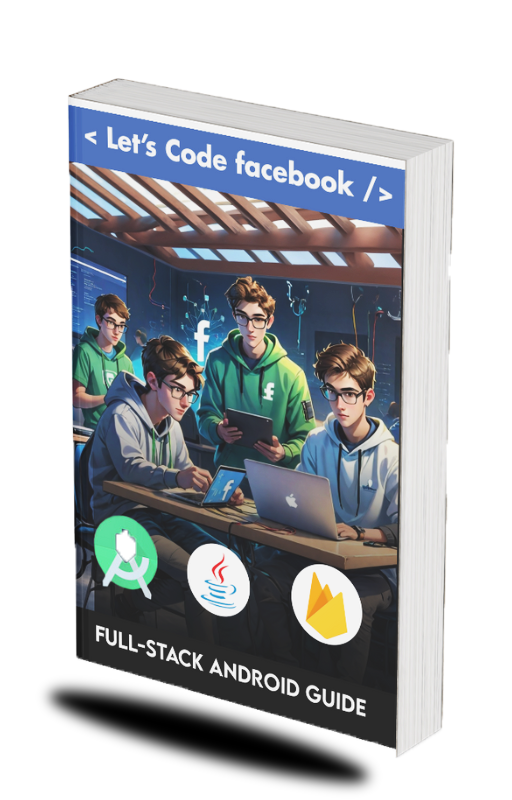
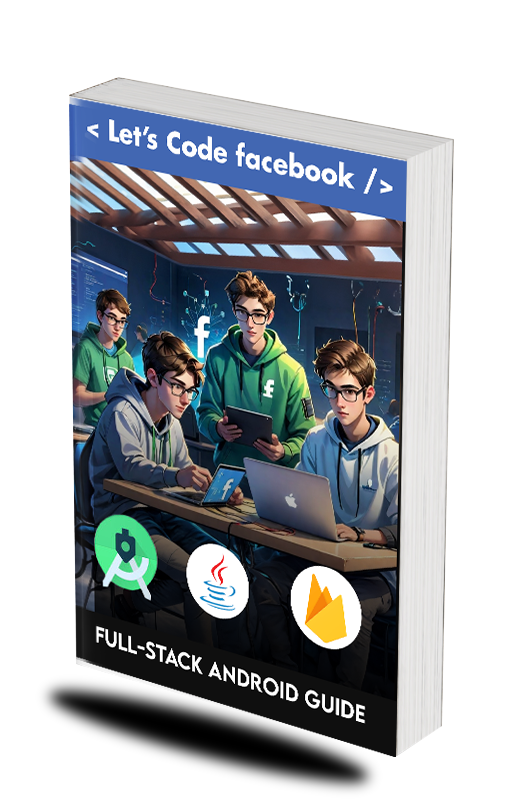
animatd Hero section using Framer Motion

Changed region(s): [[0.125, 0.0938, 0.8125, 0.9688], [0.875, 0.3125, 0.9062, 0.3438]]

diff --git a/app/src/components/Hero/Hero.css b/app/src/components/Hero/Hero.css
@@ -15,7 +15,7 @@
     align-items: center;
     margin-top: 20px;
     margin-bottom: 20px;
-    margin-left: 180px;
+    margin-left: 100px;
     margin-right: 20px;
     width: fit-content;
     padding: 20px;
@@ -24,35 +24,45 @@
 
 .buttons button{
 
-    padding-top: 10px;
-    padding-bottom: 10px;
-    padding-left: 20px;
-    padding-right: 20px;
+    padding-top: 15px;
+    padding-bottom: 15px;
+    padding-left: 30px;
+    padding-right: 30px;
     margin: 10px;
     background-color: transparent;
     text-decoration: none;
     outline: none;
     color: white;
     border: 2px solid white;
-    border-radius: 2px;
+    border-radius: 10px;
+}
+
+.hero-text p{
+
+    width: 450px;
+    margin-left: 80px;
 }
 
 .hero-text {
 
     padding-left: 60px;
-    margin-top: 10px;
+    margin-top: 0px;
     width: 100%;
+    font-family: 'Plus Jakarta Sans', sans-serif;
+    font-size: 20px;
    
 
 }
-h2{
+.hero-text h2{
 
     color: #252568;
     width: 100%;
-    font-size: 25px;
-    margin-top: 150px;
-    margin-left: 150px;
+    font-size: 20px;
+    margin-top: 90px;
+    margin-left: 80px;
     padding: 5px;
+    font-family: 'Plus Jakarta Sans', sans-serif;
+    font-size: 18px;
    
 }
 h1{
@@ -60,10 +70,12 @@ h1{
     color: white;
     width: 100%;
     font-size: 48px;
-    margin-left: 150px;
+    margin-left: 80px;
     margin-top: 0px;
-    padding: 5px;;
+    padding: 5px;
+    font-size: 50px;
 
+    font-family: 'Plus Jakarta Sans', sans-serif;
 
 }
 .heropng {
@@ -77,7 +89,7 @@ h1{
 
 .heropng img{
 
-    width: 70%;
-    margin-top: 50px;
+    width: 100px;
+    margin-top: 6px;
 }
    

diff --git a/app/src/components/Hero/Hero.jsx b/app/src/components/Hero/Hero.jsx
@@ -1,5 +1,10 @@
 import React from 'react'
 import './Hero.css'
+import Book from '../framercomponents/Book'
+import BookTitle  from '../framercomponents/BookTitle'
+import BookDescription from '../framercomponents/BookDescription'
+import BuyButton from '../framercomponents/BuyButton'
+import ReadMore from '../framercomponents/ReadMore'
 
 export default function Hero() {
   return (
@@ -8,15 +13,16 @@ export default function Hero() {
         <div className="hero">
           <div className="hero-text">
             <h2>Master Android Development</h2>
-            <h1>Let's Code Facebook </h1>
+            <BookTitle/>
+            <BookDescription/>
           </div>
           <div className="buttons">
-           <button id='read-now-btn'>Read Now</button>
-           <button id='buy-now-btn'>Buy Now</button>
+            <ReadMore/>
+          <BuyButton/>
           </div>
           <div className="heropng">
-            <img  src="bookmockedup.png" alt="logo" />
-
+            {/* <img  src="bookmockedup.png" alt="logo" /> */}
+            <Book/>
           </div>
     
       </div>

diff --git a/app/public/index.html b/app/public/index.html
@@ -4,6 +4,12 @@
     <meta charset="utf-8" />
     <link rel="icon" href="%PUBLIC_URL%/favicon.ico" />
     <meta name="viewport" content="width=device-width, initial-scale=1" />
+    <link rel="preconnect" href="https://fonts.googleapis.com">
+    <link rel="preconnect" href="https://fonts.googleapis.com">
+<link rel="preconnect" href="https://fonts.gstatic.com" crossorigin>
+<link href="https://fonts.googleapis.com/css2?family=Borel&family=Open+Sans:ital@0;1&family=Pacifico&family=Plus+Jakarta+Sans:wght@700&family=Poppins:wght@300;500&family=Questrial&family=Roboto+Mono:wght@300&display=swap" rel="stylesheet">
+<link rel="preconnect" href="https://fonts.gstatic.com" crossorigin>
+<link href="https://fonts.googleapis.com/css2?family=Borel&family=Open+Sans:ital@0;1&family=Pacifico&family=Poppins:wght@300;500&family=Questrial&family=Roboto+Mono:wght@300&display=swap" rel="stylesheet">
     <meta name="theme-color" content="#000000" />
     <meta
       name="description"

diff --git a/app/src/components/framercomponents/Book.jsx b/app/src/components/framercomponents/Book.jsx
@@ -1,0 +1,21 @@
+import React from 'react';
+import { motion } from 'framer-motion';
+import '../framercomponents/book.css'
+
+const FloatingImage = () => {
+  return (
+    <div style={{ display: 'flex', justifyContent: 'center', alignItems: 'center', height: '100vh' }}>
+      <motion.img
+        src="bookmockedup.png" // Replace with your image URL
+        alt="Floating Image"
+        style={{ width: '420px', height: '550px' }}
+        initial={{ y: 0 }} // Initial position of the image
+        animate={{ y: [0, -30, 0] }} // Animation to move image up and down
+        transition={{ duration: 2, repeat: Infinity }} // Animation duration and repetition
+        
+      />
+    </div>
+  );
+};
+
+export default FloatingImage;

diff --git a/app/src/components/navbar/Navbar.css b/app/src/components/navbar/Navbar.css
@@ -1,12 +1,13 @@
-.navbar{
 
+
+.navbar{
 
     display: flex;
     justify-content: space-between;
     height: 70px;
     background-color: #181841;
+    font-family: 'Open Sans', sans-serif;
 }
-
 .nav-links ul {
 
     display: flex;
@@ -51,6 +52,12 @@ li  a{
 
 }
 
+#logo-name{
+
+    margin-top: 20px;
+    margin-bottom: 10px;margin-left: 20px;margin-right: 10px;
+}
+
 li  :hover{
 
   
@@ -58,3 +65,17 @@ li  :hover{
    
 
 }
+
+@media (max-width:520px) {
+
+    .nav-links ul li a{
+
+      visibility: hidden;
+    }
+    .heropng{
+
+        visibility: hidden;
+    }
+     
+ }
+ 

diff --git a/app/src/components/framercomponents/BookDescription.jsx b/app/src/components/framercomponents/BookDescription.jsx
@@ -1,0 +1,16 @@
+import React from 'react';
+import { motion } from 'framer-motion';
+
+const BookDescription = () => {
+  return (
+    <motion.p
+      initial={{ opacity: 0, y: 50 }}
+      whileInView={{ opacity: 1, y: 0 }}
+      transition={{ duration: 0.8 }}
+    >
+      Lorem, ipsum dolor sit amet consectetur adipisicing elit. Aut eaque in, deleniti similique autem esse alias optio vitae perferendis voluptate, consectetur tempora aperiam quisquam dolorum maxime quibusdam dolore. In, ab!
+    </motion.p>
+  );
+};
+
+export default BookDescription;

diff --git a/app/src/components/navbar/Navbar.jsx b/app/src/components/navbar/Navbar.jsx
@@ -5,13 +5,7 @@ export default function Navbar() {
   return (
     <>
     <div className="navbar">
-        <div className="leftNavSection">
-
-        <div className="logo">
-            <img src="https://www.pngarts.com/files/2/Logo-PNG-Image.png" alt="logo" />
-        </div>
-
-        </div>
+        <div className="leftNavSection"><h3 id='logo-name'>Abhishek Kange</h3></div>
         <div className="rightNavSection">
 
         <div className="nav-links">

diff --git a/app/src/components/framercomponents/BookTitle.jsx b/app/src/components/framercomponents/BookTitle.jsx
@@ -1,0 +1,16 @@
+import React from 'react';
+import { motion } from 'framer-motion';
+
+const BookTitle = () => {
+  return (
+    <motion.h1
+      initial={{ opacity: 0, x: -50 }}
+      whileInView={{ opacity: 1, x: 0 }}
+      transition={{ duration: 0.8 }}
+    >
+      Let's Code Facebook
+    </motion.h1>
+  );
+};
+
+export default BookTitle;

diff --git a/app/src/components/framercomponents/ReadMore.jsx b/app/src/components/framercomponents/ReadMore.jsx
@@ -1,0 +1,16 @@
+import React from 'react';
+import { motion } from 'framer-motion';
+
+const BuyButton = () => {
+  return (
+    <motion.button
+      initial={{ opacity: 0, x: 30 }}
+      whileInView={{ opacity: 1, x: 0 }}
+      transition={{ duration: 0.8 }}
+    >
+      Read More
+    </motion.button>
+  );
+};
+
+export default BuyButton;

diff --git a/app/src/components/framercomponents/BuyButton.jsx b/app/src/components/framercomponents/BuyButton.jsx
@@ -1,0 +1,16 @@
+import React from 'react';
+import { motion } from 'framer-motion';
+
+const BuyButton = () => {
+  return (
+    <motion.button
+      initial={{ opacity: 0, x: -30 }}
+     whileInView={{ opacity: 1, x: 0 }}
+      transition={{ duration: 0.8 }}
+    >
+      Buy Now
+    </motion.button>
+  );
+};
+
+export default BuyButton;

diff --git a/app/src/App.css b/app/src/App.css
@@ -3,7 +3,15 @@ html{
 
   scroll-snap-type :y mandatory;
   scroll-behavior: smooth;
+  overflow-x: hidden;
 
+}
+
+#testing{
+
+  width: 60px;
+  height: 60px;
+  background-color: red;
 }
 
 body{
